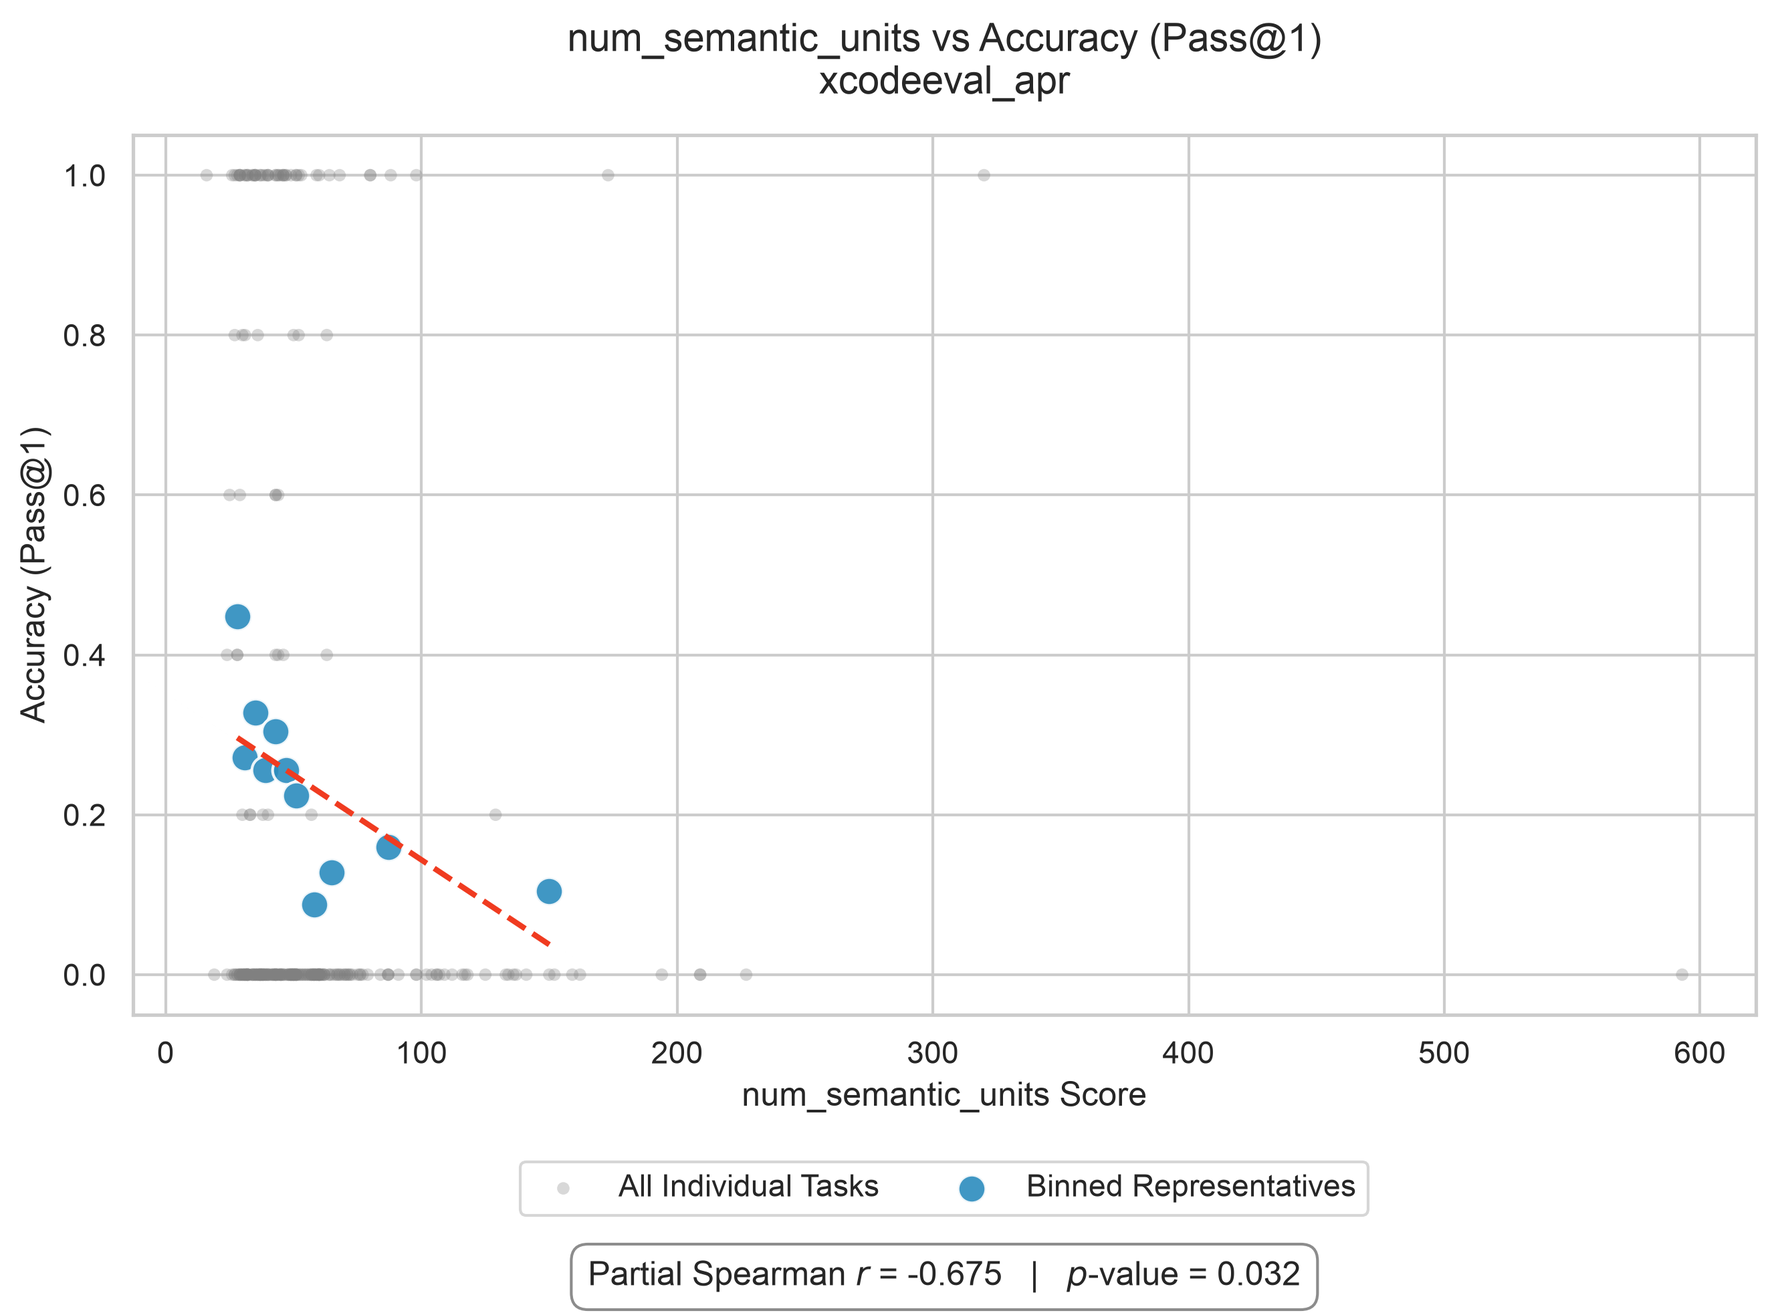
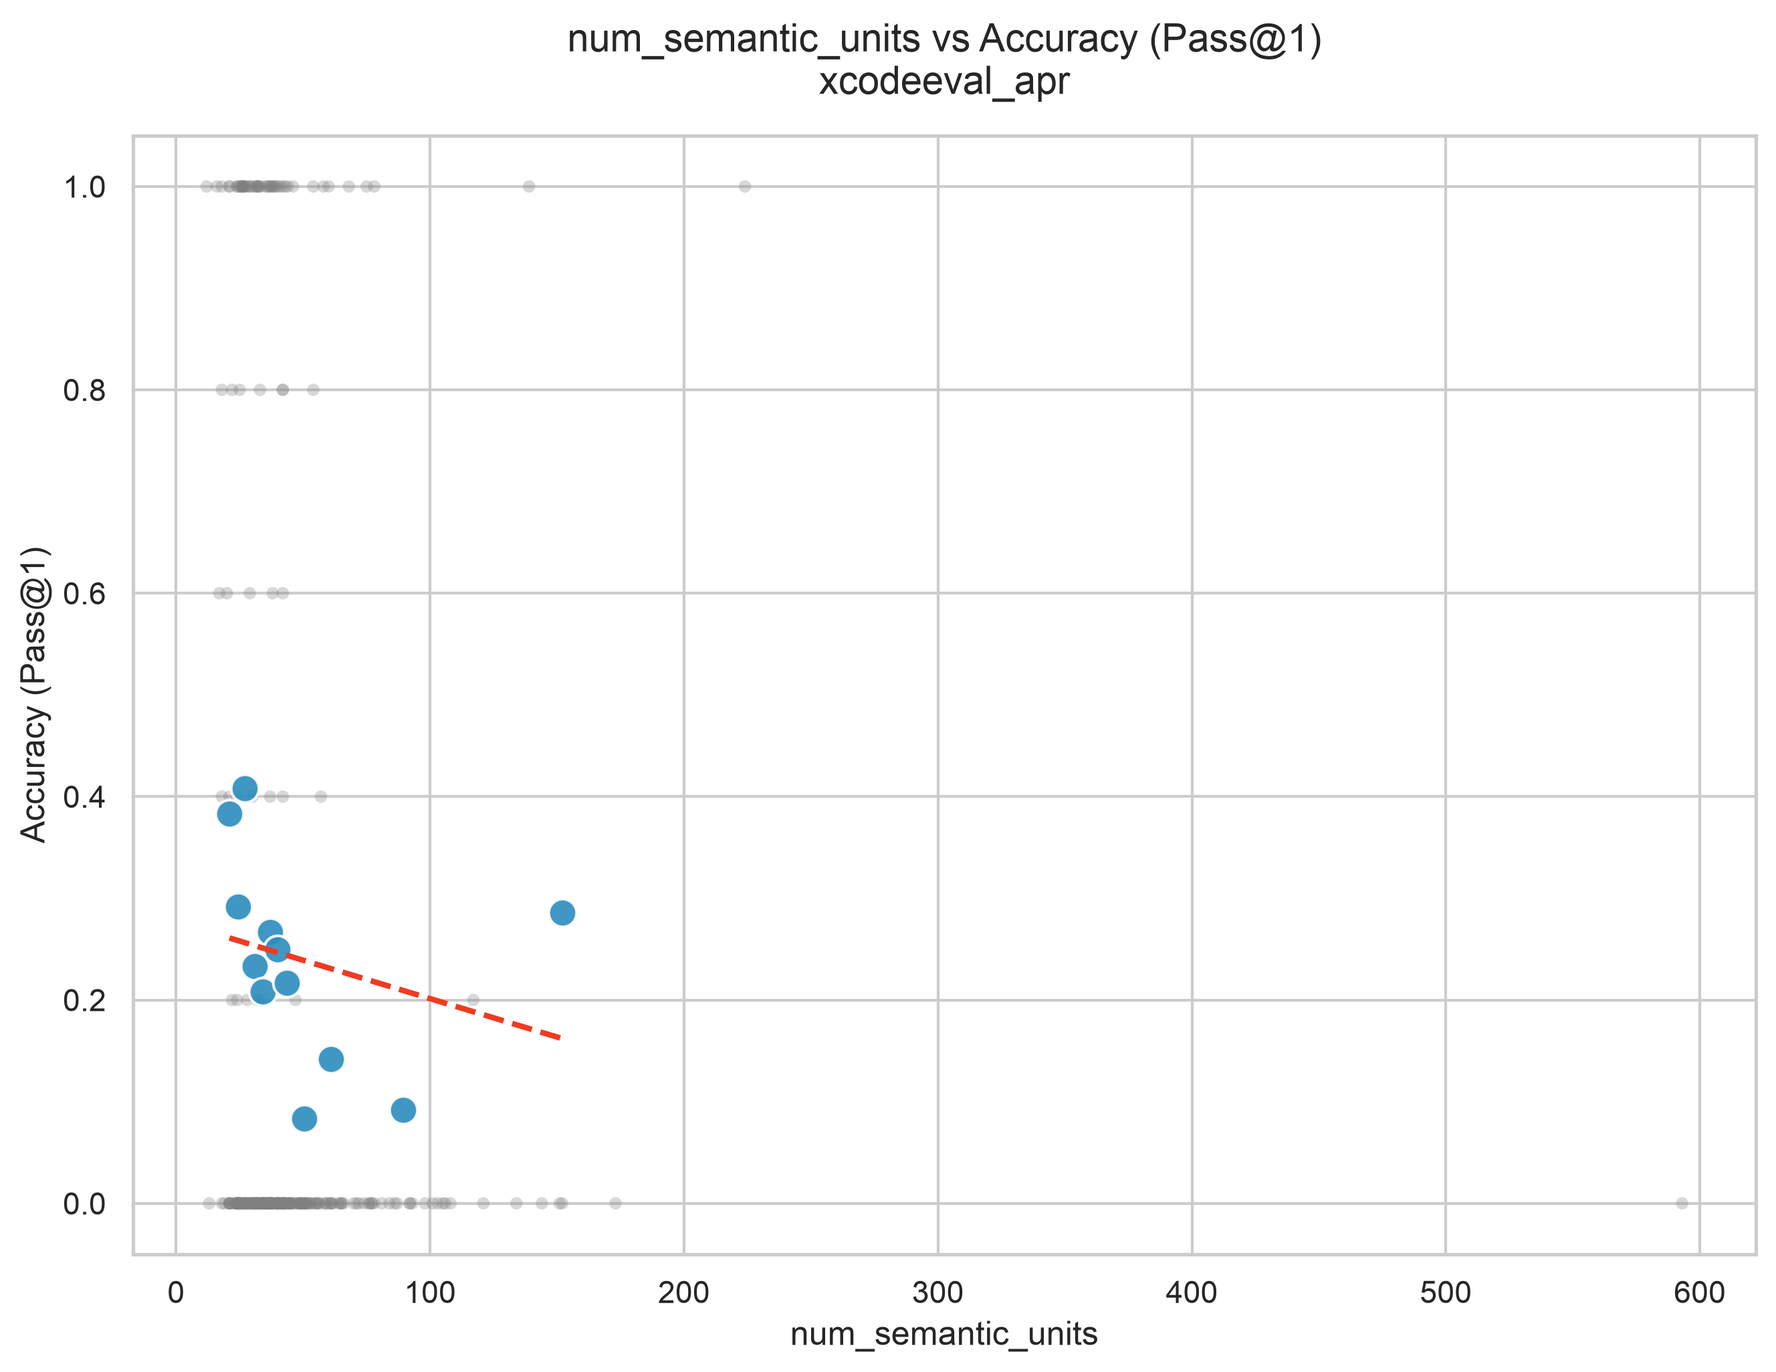
update

diff --git a/src/analysis/semantic_unit_model_comparison.py b/src/analysis/semantic_unit_model_comparison.py
@@ -1,14 +1,23 @@
-"""semantic_unit の量から pass@1 を予測するモデルとして、
+"""semantic_unit の量と pass@1 の関係を調べるスクリプト。
 
+【現在のデフォルト動作: 検証ステップ1'.2（目視のみ）】
+仮説「Semantic Unitの量が増え一定値を超えると、LLMの回答精度が急に低下するのではないか」
+について、データセットごとに Semantic Unit の量を等幅ビン（n=5, 10）に分割し、
+ビンごとの pass@1 平均を折れ線グラフとして可視化して目視で傾向を確認する
+（run_visual_trend_analysis()、閾値 p67 / p80 × 3データセット × bin幅5,10 の
+全組み合わせで図を出力する）。統計的なモデル比較はこの段階のスコープ外。
+
+【将来的に使う場合: AIC/BICによるフルのモデル比較 (run_model_comparison())】
   (A) 区分線形モデル (hinge / broken-stick regression)
-      ある breakpoint を境に傾きが変わる -> 「崖」仮説に対応
-  (B) 滑らかな減衰モデル (4パラメータ・ロジスティック曲線)
+      ある breakpoint を境に "なめらかに" 傾きが変わる (真の不連続な崖ではない点に注意)
+  (B) ステップ関数モデル (真の崖仮説)
+      breakpoint を境に値が不連続にジャンプする
+  (C) 滑らかな減衰モデル (4パラメータ・ロジスティック曲線)
       連続的に減衰していく -> 「じわじわ蝕む」仮説に対応
 
-の2つをそれぞれ生データ (ビン分けする前の1レコード=1ファイル単位) にフィットし、
-AIC / BIC で当てはまりの良さをパラメータ数のペナルティ込みで比較する。
-
-参考として単純な線形回帰 (2パラメータ) もベースラインとして併記する。
+これらを生データ (ビン分けする前の1レコード=1ファイル単位) にフィットし、
+AIC / BIC で当てはまりの良さをパラメータ数のペナルティ込みで比較する
+(参考として単純な線形回帰もベースラインとして併記)。
 
 このスクリプトは {PROJECT_ROOT}/src/analysis/ 配下に、
 semantic_unit_threshold_analysis.py と同じディレクトリに配置することを想定。
@@ -94,6 +103,16 @@ def logistic4_model(x: np.ndarray, L: float, U: float, k: float, x0: float) -> n
     return L + (U - L) / (1.0 + np.exp(k * (x - x0)))
 
 
+def step_predict(x: np.ndarray, bp: float, level_high: float, level_low: float) -> np.ndarray:
+    """真の崖仮説: 不連続なステップ関数。
+    breakpoint を境に、値が連続的にではなく一気にジャンプする。
+
+    y = level_high   (x < bp)
+    y = level_low    (x >= bp)
+    """
+    return np.where(x < bp, level_high, level_low)
+
+
 # ==========================================
 # フィッティング
 # ==========================================
@@ -129,12 +148,45 @@ def fit_hinge(x: np.ndarray, y: np.ndarray) -> dict:
 
     return {
         "name": "hinge",
-        "label": "区分線形モデル (崖仮説)",
+        "label": "区分線形モデル (崖仮説・旧版/なめらか)",
         # breakpoint も自由パラメータとしてカウント (a, b, c, bp の4つ)
         "k_params": 4,
         "rss": best["rss"],
         "params": {"breakpoint": best["bp"], "a": best["a"], "b": best["b"], "c": best["c"]},
         "predict": lambda xx: hinge_predict(xx, best["bp"], best["a"], best["b"], best["c"]),
+    }
+
+
+def fit_step(x: np.ndarray, y: np.ndarray) -> dict:
+    """真の崖仮説: breakpoint を境に平均値が不連続にジャンプするステップ関数をフィットする。
+    区分線形(hinge)モデルと違い、breakpoint の前後で値がなめらかに繋がらない点が本質的に異なる。
+    """
+    lo, hi = np.percentile(x, BREAKPOINT_SEARCH_PERCENTILES)
+    candidates = np.linspace(lo, hi, BREAKPOINT_GRID_SIZE)
+
+    best = None
+    for bp in candidates:
+        mask_low = x < bp
+        mask_high = ~mask_low
+        if mask_low.sum() < 2 or mask_high.sum() < 2:
+            continue
+        level_high = float(np.mean(y[mask_low]))
+        level_low = float(np.mean(y[mask_high]))
+        y_pred = np.where(mask_low, level_high, level_low)
+        rss = float(np.sum((y - y_pred) ** 2))
+        if best is None or rss < best["rss"]:
+            best = {"bp": bp, "level_high": level_high, "level_low": level_low, "rss": rss}
+
+    if best is None:
+        return None
+
+    return {
+        "name": "step",
+        "label": "ステップ関数モデル (真の崖仮説)",
+        "k_params": 3,  # breakpoint, level_high, level_low
+        "rss": best["rss"],
+        "params": {"breakpoint": best["bp"], "level_high": best["level_high"], "level_low": best["level_low"]},
+        "predict": lambda xx: step_predict(xx, best["bp"], best["level_high"], best["level_low"]),
     }
 
 
@@ -186,7 +238,7 @@ def compare_models(df: pd.DataFrame, label: str) -> pd.DataFrame:
     y = df[SCORE_COL].to_numpy(dtype=float)
     n = len(x)
 
-    fitted = [fit_linear(x, y), fit_hinge(x, y)]
+    fitted = [fit_linear(x, y), fit_hinge(x, y), fit_step(x, y)]
     logistic_fit = fit_logistic(x, y)
     if logistic_fit is not None:
         fitted.append(logistic_fit)
@@ -194,7 +246,8 @@ def compare_models(df: pd.DataFrame, label: str) -> pd.DataFrame:
     # グラフの凡例は文字化け防止のため英語表記を使う
     plot_labels = {
         "linear": "linear (baseline)",
-        "hinge": "hinge / broken-stick (cliff hypothesis)",
+        "hinge": "hinge / broken-stick (smooth, NOT a true cliff)",
+        "step": "step function (true cliff hypothesis)",
         "logistic": "logistic decay (erosion hypothesis)",
     }
     for m in fitted:
@@ -247,21 +300,24 @@ def plot_model_comparison(x: np.ndarray, y: np.ndarray, fitted: list, label: str
     ax.scatter(x, y, s=10, alpha=0.15, color="gray", label="raw data")
 
     x_line = np.linspace(x.min(), x.max(), 400)
-    colors = {"linear": "tab:blue", "hinge": "tab:orange", "logistic": "tab:red"}
+    colors = {"linear": "tab:blue", "hinge": "tab:orange", "step": "tab:green", "logistic": "tab:red"}
     for m in fitted:
         y_line = m["predict"](x_line)
         ax.plot(x_line, y_line, color=colors.get(m["name"], "black"), linewidth=2.5, label=m["plot_label"])
         if m["name"] == "hinge":
             ax.axvline(m["params"]["breakpoint"], color=colors["hinge"], linestyle="--", alpha=0.6,
-                       label=f"breakpoint={m['params']['breakpoint']:.1f}")
+                       label=f"breakpoint(hinge)={m['params']['breakpoint']:.1f}")
+        if m["name"] == "step":
+            ax.axvline(m["params"]["breakpoint"], color=colors["step"], linestyle="--", alpha=0.6,
+                       label=f"breakpoint(step)={m['params']['breakpoint']:.1f}")
         if m["name"] == "logistic":
             ax.axvline(m["params"]["x0"], color=colors["logistic"], linestyle="--", alpha=0.6,
                        label=f"x0(midpoint)={m['params']['x0']:.1f}")
 
     ax.set_xlabel("num_semantic_units")
-    ax.set_ylabel("pass@1")
+    ax.set_ylabel("Accuracy(pass@1)")
     ax.set_ylim(-0.1, 1.1)
-    ax.set_title(f"model comparison: hinge (cliff) vs logistic (erosion) - {label}")
+    ax.set_title(f"model comparison: linear vs hinge vs step(true cliff) vs logistic - {label}")
     ax.legend(loc="upper right", fontsize=9)
     fig.tight_layout()
 
@@ -492,7 +548,7 @@ def plot_dataset_controlled_comparison(df: pd.DataFrame, fitted: list, fig_suffi
         ax.set_xlabel("num_semantic_units")
         ax.set_ylim(-0.1, 1.1)
 
-    axes[0].set_ylabel("pass@1")
+    axes[0].set_ylabel("Accuracy(pass@1)")
     handles, labels = axes[0].get_legend_handles_labels()
     fig.legend(handles, labels, loc="lower center", ncol=4, fontsize=9, bbox_to_anchor=(0.5, -0.05))
     fig.suptitle("dataset-controlled model comparison (shared shape, per-dataset intercept)")
@@ -506,9 +562,9 @@ def plot_dataset_controlled_comparison(df: pd.DataFrame, fitted: list, fig_suffi
 
 
 # ==========================================
-# メイン処理
+# メイン処理: AIC/BIC モデル比較 (フル版。現在は 1'.2 のスコープ外だが将来使えるよう保持)
 # ==========================================
-def main() -> None:
+def run_model_comparison() -> None:
     if MERGED_CSV_PATH.exists():
         logger.info("マージ済みキャッシュを読み込みます: %s", MERGED_CSV_PATH)
         df = pd.read_csv(MERGED_CSV_PATH)
@@ -568,5 +624,107 @@ def main() -> None:
     logger.info("比較結果テーブルを保存しました: %s", table_path)
 
 
+# ==========================================
+# メイン処理: 検証ステップ1'.2 (目視のみ) 用のビン分けトレンド可視化
+# ==========================================
+# 検証ステップ1'.2: Semantic Unitの量が増え一定値を超えると、
+#                   LLMの回答精度が急に低下するのではないか。
+# 検証アプローチ: データセットごとに Semantic Unit の量をビン分けし、
+#                 ビンごとの pass@1 平均を折れ線グラフで可視化して目視で傾向を確認する。
+#                 (統計的なモデル比較は行わない。AIC/BICでの検証は run_model_comparison() 側で扱う)
+
+# Semantic Unit / LM-CC の算出に使うトークンエントロピー閾値 (percentile)。
+# [1] LM-CC 提唱論文 (Xie et al., 2026) のデフォルト設定 p67
+# [2] LM-CC が Semantic Unit の概念で参考にした論文の設定 p80
+VISUAL_SUMMARY_CSV_PATHS = {
+    "p67": PROJECT_ROOT / "results" / "summaries" / "analysis_summary_p67.csv",
+    "p80": PROJECT_ROOT / "results" / "summaries" / "analysis_summary_p80.csv",
+}
+
+# 対象データセット (タスクの種類が異なるため、pool せずデータセットごとに個別で見る)
+VISUAL_DATASETS = ["humaneval", "xcodeeval_apr", "xcodeeval_code_translation"]
+
+# ビン分けの基準 (Semantic Unit 分布を n ごとの等幅ビンに分割する)
+VISUAL_BIN_SIZES = [5, 10]
+
+VISUAL_OUTPUT_DIR = PROJECT_ROOT / "results" / "semantic_unit_visual_trend"
+VISUAL_FIGURE_DIR = VISUAL_OUTPUT_DIR / "figures"
+
+
+def compute_bin_trend(x: np.ndarray, y: np.ndarray, bin_size: int) -> pd.DataFrame:
+    """num_semantic_units を bin_size 幅の等幅ビンに分け、ビンごとの pass@1 平均・件数を返す。
+    (縦軸=サンプル数 n ではなく、縦軸=pass@1平均・横軸=semantic_unit を可視化する目的専用)
+    """
+    max_val = float(np.max(x))
+    n_bins = int(np.ceil((max_val + 1) / bin_size))
+    edges = np.arange(0, (n_bins + 1) * bin_size, bin_size)
+
+    bin_index = pd.cut(x, bins=edges, right=False, include_lowest=True)
+    tmp = pd.DataFrame({"bin": bin_index, "y": y})
+    grouped = tmp.groupby("bin", observed=True)["y"].agg(n="count", pass_at_1_mean="mean").reset_index()
+    grouped["bin_mid"] = grouped["bin"].apply(lambda iv: (iv.left + iv.right) / 2.0)
+    grouped = grouped.loc[grouped["n"] > 0].sort_values("bin_mid").reset_index(drop=True)
+    return grouped[["bin_mid", "n", "pass_at_1_mean"]]
+
+
+def plot_visual_trend(df: pd.DataFrame, bin_size: int, threshold_label: str, dataset_label: str) -> None:
+    x = df[UNIT_COL].to_numpy(dtype=float)
+    y = df[SCORE_COL].to_numpy(dtype=float)
+
+    trend = compute_bin_trend(x, y, bin_size)
+
+    fig, ax = plt.subplots(figsize=(8, 5.5))
+
+    # 生データはうっすらと散布図で背景に表示するのみ (主役はビンごとの平均の折れ線)
+    ax.scatter(x, y, s=14, alpha=0.12, color="gray", label="raw data (Accuracy(pass@1) per file)")
+
+    # ビンごとの Accuracy(pass@1) 平均の折れ線 (これが今回見たい主役)
+    ax.plot(trend["bin_mid"], trend["pass_at_1_mean"], color="tab:red", linewidth=2.5,
+             marker="o", markersize=5, label=f"Accuracy(pass@1) mean per bin (width={bin_size})")
+
+    ax.set_xlabel("num_semantic_units")
+    ax.set_ylabel("Accuracy(pass@1)")
+    ax.set_ylim(-0.05, 1.05)
+    ax.set_title(f"{dataset_label} | threshold={threshold_label} | bin width={bin_size}")
+    ax.legend(loc="upper right", fontsize=9)
+    fig.tight_layout()
+
+    VISUAL_FIGURE_DIR.mkdir(parents=True, exist_ok=True)
+    out_path = VISUAL_FIGURE_DIR / f"trend_{threshold_label}_{dataset_label}_bin{bin_size}.png"
+    fig.savefig(out_path, dpi=150)
+    plt.close(fig)
+    logger.info("グラフを保存しました: %s", out_path)
+
+
+def run_visual_trend_analysis() -> None:
+    for threshold_label, csv_path in VISUAL_SUMMARY_CSV_PATHS.items():
+        if not csv_path.exists():
+            logger.warning("閾値 %s のサマリーCSVが見つからないためスキップ: %s", threshold_label, csv_path)
+            continue
+
+        logger.info("===== threshold=%s のデータを読み込み中 (%s) =====", threshold_label, csv_path)
+        merged = load_and_merge_summary(csv_path)
+        merged = merged.dropna(subset=[UNIT_COL, SCORE_COL])
+
+        # 1. データセットごとのプロット
+        for ds in VISUAL_DATASETS:
+            df_ds = merged.loc[merged[SummarySchema.DATASET] == ds]
+            if len(df_ds) < 10:
+                logger.warning("threshold=%s, dataset=%s はサンプル数が少なすぎるためスキップ (%d件)",
+                               threshold_label, ds, len(df_ds))
+                continue
+            for bin_size in VISUAL_BIN_SIZES:
+                plot_visual_trend(df_ds, bin_size, threshold_label, ds)
+
+        # 2. 全データセット合算 (ALL) のプロットを追加
+        logger.info("===== threshold=%s, dataset=ALL (合算) の処理 =====", threshold_label)
+        if len(merged) >= 10:
+            for bin_size in VISUAL_BIN_SIZES:
+                plot_visual_trend(merged, bin_size, threshold_label, "ALL_datasets")
+
+
 if __name__ == "__main__":
-    main()
+    # 検証ステップ1'.2 (目視のみ) のためのビン分けトレンド可視化。
+    # AIC/BICによるフルのモデル比較を行いたい場合は run_model_comparison() を呼び出す。
+    run_visual_trend_analysis()
+    # run_model_comparison()

diff --git a/src/analysis/plot_analysis_scatter.py b/src/analysis/plot_analysis_scatter.py
@@ -4,6 +4,7 @@ import json
 import logging
 from pathlib import Path
 import matplotlib.pyplot as plt
+import japanize_matplotlib
 import seaborn as sns
 import warnings
 
@@ -19,7 +20,7 @@ warnings.filterwarnings("ignore", message="The covariance matrix is rank-deficie
 # ==========================================
 # correlation_analysis.py と同じパス解決
 PROJECTS_DIR = Path(__file__).resolve().parent.parent.parent.parent
-SUMMARY_CSV_PATH = PROJECTS_DIR / "detect-llm-hard-to-read" / "results" / "summaries" / "analysis_summary.csv"
+SUMMARY_CSV_PATH = PROJECTS_DIR / "detect-llm-hard-to-read" / "results" / "summaries" / "analysis_summary_p80.csv"
 
 # 💡 プロット画像の保存先 (detect-llm-hard-to-read/results/plots)
 PLOT_OUTPUT_DIR = PROJECTS_DIR / "detect-llm-hard-to-read" / "results" / "plots"
@@ -92,25 +93,25 @@ def plot_scatter(dataset_name, metric_name, all_metrics, all_scores, mean_metric
 
     # タイトルと軸ラベルの設定
     plt.title(f"{metric_name} vs Accuracy (Pass@1)\n{dataset_name}", fontsize=14, pad=15)
-    plt.xlabel(f"{metric_name} Score", fontsize=12)
+    plt.xlabel(f"{metric_name}", fontsize=12)
     plt.ylabel("Accuracy (Pass@1)", fontsize=12)
 
     # y軸（正答率）の範囲を0.0〜1.05に固定
     plt.ylim(-0.05, 1.05)
 
-    # 💡 凡例をグラフの下（X軸ラベルのさらに下）の中央に2列で配置
-    plt.legend(loc='upper center', bbox_to_anchor=(0.5, -0.15), ncol=2, frameon=True, fontsize=11)
-
-    # 💡 相関係数とp値のテキストを1行にまとめ、凡例のさらに下に配置
-    textstr = f"Partial Spearman $r$ = {r_val:.3f}   |   $p$-value "
-    if p_val < 0.001:
-        textstr += "< 0.001"
-    else:
-        textstr += f"= {p_val:.3f}"
-
-    props = dict(boxstyle='round,pad=0.5', facecolor='white', alpha=0.9, edgecolor='gray')
-    plt.gca().text(0.5, -0.28, textstr, transform=plt.gca().transAxes, fontsize=12,
-                   verticalalignment='top', horizontalalignment='center', bbox=props)
+    # # 💡 凡例をグラフの下（X軸ラベルのさらに下）の中央に2列で配置
+    # plt.legend(loc='upper center', bbox_to_anchor=(0.5, -0.15), ncol=2, frameon=True, fontsize=11)
+    #
+    # # 💡 相関係数とp値のテキストを1行にまとめ、凡例のさらに下に配置
+    # textstr = f"Partial Spearman $r$ = {r_val:.3f}   |   $p$-value "
+    # if p_val < 0.001:
+    #     textstr += "< 0.001"
+    # else:
+    #     textstr += f"= {p_val:.3f}"
+    #
+    # props = dict(boxstyle='round,pad=0.5', facecolor='white', alpha=0.9, edgecolor='gray')
+    # plt.gca().text(0.5, -0.28, textstr, transform=plt.gca().transAxes, fontsize=12,
+    #                verticalalignment='top', horizontalalignment='center', bbox=props)
 
     plt.tight_layout()
 

diff --git a/src/analysis/pipeline.py b/src/analysis/pipeline.py
@@ -86,7 +86,7 @@ def process_file(parquet_path: Path, base_in_dir: Path, threshold: float) -> dic
     return summary
 
 
-def run_pipeline(threshold: float = 0.0335, suffix: str = "_p20"):
+def run_pipeline(threshold: float = 1.3238, suffix: str = "_p80"):
     if not INPUT_DIR.exists():
         logging.error(f"入力ディレクトリが見つかりません: {INPUT_DIR}")
         sys.exit(1)
@@ -94,7 +94,7 @@ def run_pipeline(threshold: float = 0.0335, suffix: str = "_p20"):
     ENRICHED_DIR.mkdir(parents=True, exist_ok=True)
     SUMMARIES_DIR.mkdir(parents=True, exist_ok=True)
 
-    parquet_files = list(INPUT_DIR.rglob("*.parquet"))
+    parquet_files = list(INPUT_DIR.rglob("result_HumanEval_2.parquet"))
     total_files = len(parquet_files)
 
     if total_files == 0:

diff --git a/src/analysis/cache.py b/src/analysis/cache.py
@@ -1,0 +1,14 @@
+import matplotlib
+import shutil
+from pathlib import Path
+
+# キャッシュディレクトリのパスを表示して削除
+cache_dir = Path(matplotlib.get_cachedir())
+print(f"キャッシュディレクトリ: {cache_dir}")
+
+# キャッシュファイルを削除
+if cache_dir.exists():
+    shutil.rmtree(cache_dir)
+    print("キャッシュを削除しました。次にPythonを再起動した際に再生成されます。")
+else:
+    print("キャッシュディレクトリが見つかりません。")

diff --git a/src/analysis/macro/lm_cc_helper/code_block_processor.py b/src/analysis/macro/lm_cc_helper/code_block_processor.py
@@ -151,7 +151,7 @@ class CodeBlockProcessor:
 
         clean_code = '\n'.join(code_lines)
         tree = self.parser.parse(bytes(clean_code, 'utf8'))
-        # print(code_with_boundaries)
+        print(code_with_boundaries)
         # 主处理流程
         root_block = {
             "block_code": clean_code,
